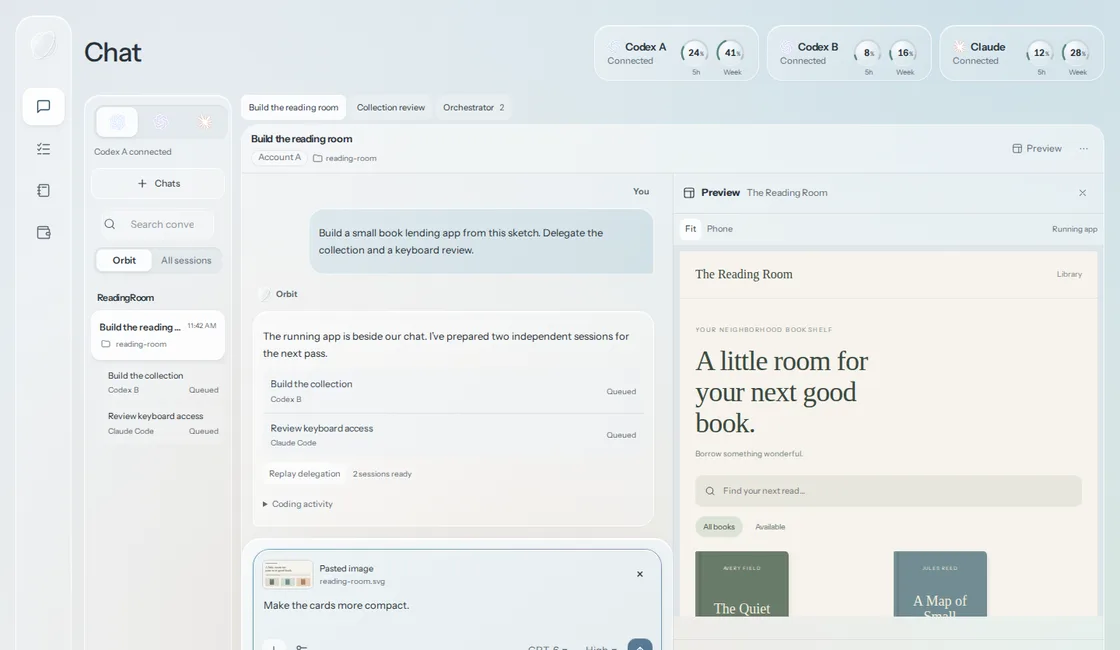
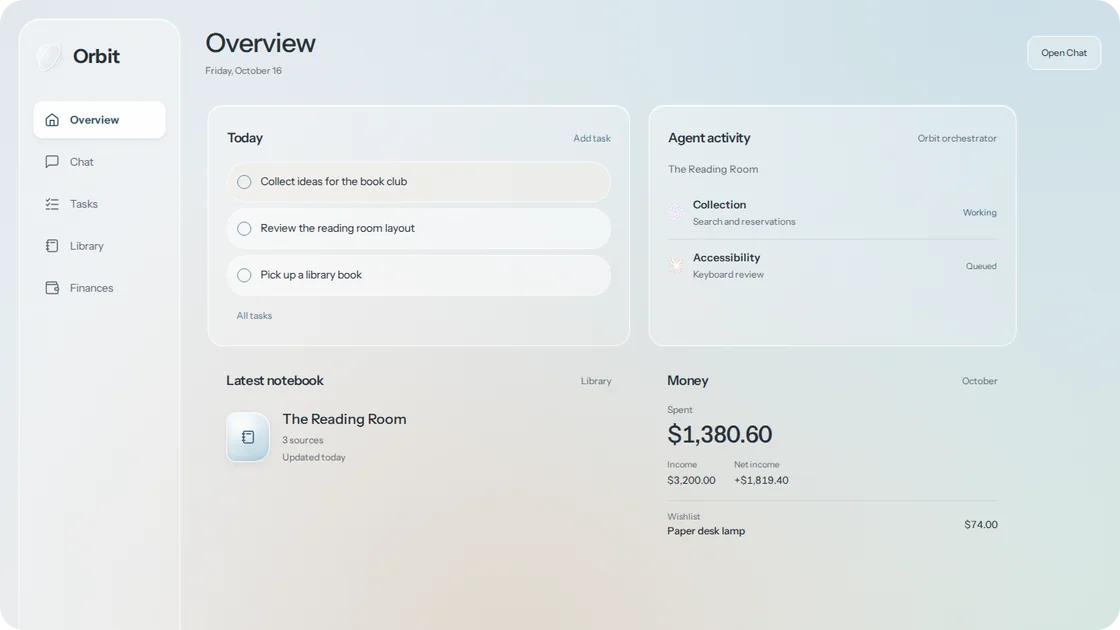
Feature Orbit, Homelab, Proterra and Nest as four equal cards

diff --git a/src/data/featured.ts b/src/data/featured.ts
@@ -5,8 +5,8 @@ export const featured = [
     image: {
       src: "/assets/shots/orbit-featured.webp",
       width: 1120,
-      height: 650,
-      alt: "Orbit chat workspace with three connected agent accounts, delegated sessions and a running app preview, using invented data.",
+      height: 630,
+      alt: "Orbit Overview with today's tasks, agent activity, a research notebook and monthly finances, using invented data.",
     },
     contribution: "Built with Python and SQLite.",
     hook: "Hosted on my homelab. Available across devices.",
@@ -31,23 +31,6 @@ export const featured = [
       "Development tools and repositories run alongside containerized applications.",
       "AdGuard Home handles DNS filtering; trusted and IoT devices have separate access rules.",
       "Prometheus collects host and container metrics; Grafana brings them together in dashboards and alerts.",
-    ],
-  },
-  {
-    id: "nume",
-    summary: "Wellness recommendations from wearable data and check-ins.",
-    image: {
-      src: "/assets/shots/nume-featured.webp",
-      width: 1120,
-      height: 630,
-      alt: "NüMe dashboard showing a daily support plan, recovery signals and risk drivers with sample data.",
-    },
-    contribution: "I developed the frontend and backend.",
-    hook: "Each recommendation is stored with its reasons, alternatives, and the profile used.",
-    how: [
-      "Garmin data and manual check-ins form a profile for each run.",
-      "Scoring rules rank recipe, activity, and wellness options from that profile.",
-      "The original app records accept/skip responses but does not use them to learn from outcomes.",
     ],
   },
   {

diff --git a/src/styles/home.css b/src/styles/home.css
@@ -243,7 +243,7 @@ section {
   color: var(--ink);
 }
 
-/* Selected work: a full-width lead above the paired cards. */
+/* Selected work: four equal cards in two columns. */
 .work {
   padding-bottom: 112px;
 }
@@ -258,43 +258,6 @@ section {
   display: flex;
   flex-direction: column;
   min-width: 0;
-}
-.work-card-lead {
-  grid-column: 1 / -1;
-}
-.work-card-lead .work-stage {
-  aspect-ratio: 1120 / 650;
-  max-height: 340px;
-  border-radius: 0;
-}
-.work-card-lead .work-media img {
-  object-fit: contain;
-}
-@media (min-width: 768px) {
-  .work-card-lead {
-    display: grid;
-    grid-template-columns: minmax(0, 0.8fr) minmax(0, 1.2fr);
-    grid-template-rows: 1fr auto;
-    column-gap: 32px;
-    align-items: center;
-  }
-  .work-card-lead .work-heading {
-    grid-column: 1;
-    grid-row: 1;
-    align-self: end;
-    min-height: 0;
-    padding-bottom: 12px;
-  }
-  .work-card-lead .work-stage {
-    grid-column: 2;
-    grid-row: 1 / 3;
-  }
-  .work-card-lead .work-body {
-    grid-column: 1;
-    grid-row: 2;
-    align-self: start;
-    padding-top: 0;
-  }
 }
 .work-card:has(.work-more.is-expanded) {
   z-index: 3;

diff --git a/src/content/projects/nume.md b/src/content/projects/nume.md
@@ -14,7 +14,7 @@ tools:
     "Cloudflare",
   ]
 order: 0
-featured: true
+featured: false
 status: "Product demo"
 visual: "nume"
 demo: "https://nume-demo.com"
